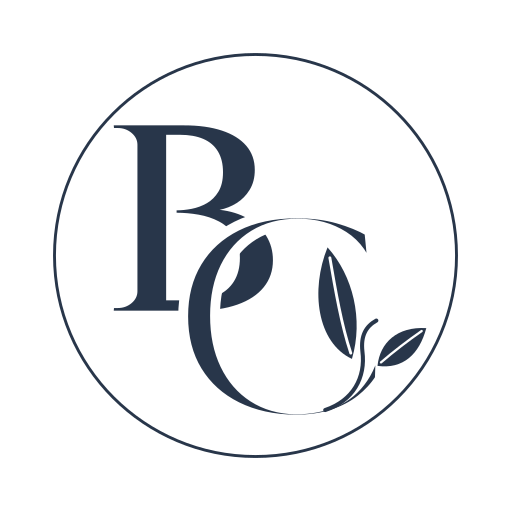
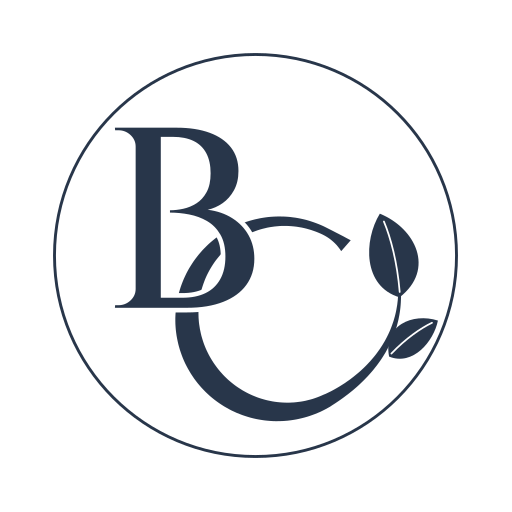
Redraw the BodyCentre monogram from scratch
The C is now one variable-width stroke with a diagonal, engraved stress that
passes behind the B and turns into the vine, ending in two constructed
leaves with midribs; the B stays whole. Replaces the stretched Cinzel C and
hand-placed leaves. Favicons and the link card are regenerated from it.

Also from review: the phone booking bar watches the hero buttons, scroll
reveals fall back to visible if their script never runs, and the FSA note
uses their own wording.

Changed region(s): [[0.2188, 0.2188, 0.875, 0.8438]]

diff --git a/apps/bodycentre-day-spa/src/scripts/reveal.ts b/apps/bodycentre-day-spa/src/scripts/reveal.ts
@@ -1,8 +1,10 @@
 /**
  * Marks `[data-reveal]` elements `.is-visible` the first time they near the
  * viewport, then stops watching them (global.css owns the transition). Reveals
- * run once: content that has been seen never animates again.
+ * run once: content that has been seen never animates again. `data-reveal-ready`
+ * tells global.css the script is running, so its no-script fallback stays off.
  */
+document.documentElement.toggleAttribute("data-reveal-ready", true);
 const targets = document.querySelectorAll<HTMLElement>("[data-reveal]");
 const observer = new IntersectionObserver(
   (entries) => {

diff --git a/apps/bodycentre-day-spa/src/styles/global.css b/apps/bodycentre-day-spa/src/styles/global.css
@@ -196,7 +196,8 @@
   transition-delay: calc(var(--i, 0) * 60ms);
 }
 
-.js [data-reveal].is-visible {
+.js [data-reveal].is-visible,
+.js.reveal-timeout:not([data-reveal-ready]) [data-reveal] {
   opacity: 1;
   transform: none;
 }

diff --git a/apps/bodycentre-day-spa/brand/build_logo.py b/apps/bodycentre-day-spa/brand/build_logo.py
@@ -2,11 +2,12 @@
 Rebuilds the BodyCentre logo as clean, flat vectors from their chrome raster.
 
 The original (brand/logo-original.png, from bodycentredayspa.com) is a beveled
-chrome render with glow, which traces badly. So the same design is rebuilt from
-parts, in the original's pixel coordinates: a fitted ring, B and C set in Cinzel
-(a Trajan-style face like the original's), the C thinned and cut where it
-crosses the B, hand-drawn leaves and stem, and the wordmark with each Cinzel
-glyph centered on the matching original glyph.
+chrome render with glow, which traces badly. So the same design is rebuilt in
+the original's pixel coordinates: a fitted ring; the B set in Cinzel (a
+Trajan-style face like the original's); the C drawn from scratch as one
+variable-width stroke with a diagonal, engraved stress that runs behind the B
+and turns into the vine; two constructed leaves with a midrib; and the
+wordmark with each Cinzel glyph centered on the matching original glyph.
 
 Outputs: public/brand/logo.svg, mark.svg, logo.png, and public/favicon.png,
 apple-touch-icon.png, icon-512.png, og-default.png.
@@ -15,6 +16,7 @@ Run: uv run --with fonttools python3 brand/build_logo.py   (needs rsvg-convert)
      add --overlay to write brand/.work/overlay.svg over the original for alignment
 """
 
+import math
 import subprocess
 import sys
 import urllib.request
@@ -71,17 +73,69 @@ def word(text, cap_height, baseline, centers):
     return " ".join(parts)
 
 
-# Geometry measured on the original (1254 x 911).
+def pt(x, y):
+    return f"{x:.1f} {y:.1f}"
+
+
+def outline(center, widths):
+    """Closed outline of a variable-width stroke along a sampled centerline."""
+    left, right = [], []
+    for k, (x, y) in enumerate(center):
+        ax, ay = center[max(k - 1, 0)]
+        bx, by = center[min(k + 1, len(center) - 1)]
+        dx, dy = bx - ax, by - ay
+        m = math.hypot(dx, dy) or 1
+        nx, ny, w = -dy / m, dx / m, widths[k] / 2
+        left.append((x + nx * w, y + ny * w))
+        right.append((x - nx * w, y - ny * w))
+    return "M " + " L ".join(pt(*q) for q in left + right[::-1]) + " Z"
+
+
+def c_with_vine():
+    """The C and its vine as one stroke: an arc thickest at lower left, then a tapering curve."""
+    cx, cy, rm = 668, 515, 164
+    start, end = 360 - 48, 62  # top terminal, then around the left to the lower right
+    center, widths = [], []
+    for k in range(161):
+        a = start + (end - start) * k / 160
+        center.append((cx + rm * math.cos(math.radians(a)), cy + rm * math.sin(math.radians(a))))
+        stress = ((1 + math.cos(math.radians(a - 150))) / 2) ** 1.6
+        flare = 1 + 0.9 * max(0.0, 1 - k / 10) ** 2
+        widths.append((13 + 30 * stress) * flare)
+    tx, ty = math.sin(math.radians(end)), -math.cos(math.radians(end))
+    p0 = center[-1]
+    p1, p2, p3 = (p0[0] + tx * 70, p0[1] + ty * 70), (868, 566), (870, 478)
+    w0 = widths[-1]
+    for k in range(1, 61):
+        t = k / 60
+        center.append(tuple((1 - t) ** 3 * p0[i] + 3 * (1 - t) ** 2 * t * p1[i] + 3 * (1 - t) * t * t * p2[i] + t**3 * p3[i] for i in (0, 1)))
+        widths.append(w0 + (5 - w0) * t**0.8)
+    return outline(center, widths)
+
+
+def leaf(base, tip, half_width, bend):
+    """An almond leaf from base to tip, and its midrib."""
+    (bx, by), (tx, ty) = base, tip
+    dx, dy = tx - bx, ty - by
+    length = math.hypot(dx, dy)
+    nx, ny = -dy / length, dx / length
+
+    def at(t, offset):
+        o = offset + bend * length * 4 * t * (1 - t)
+        return (bx + dx * t + nx * o, by + dy * t + ny * o)
+
+    body = f"M {pt(bx, by)} C {pt(*at(0.22, half_width * 1.4))} {pt(*at(0.74, half_width))} {pt(tx, ty)} C {pt(*at(0.74, -half_width))} {pt(*at(0.22, -half_width * 1.4))} {pt(bx, by)} Z"
+    rib = f"M {pt(*at(0.06, 0))} C {pt(*at(0.4, 0))} {pt(*at(0.7, 0))} {pt(*at(0.9, 0))}"
+    return body, rib
+
+
+# Geometry in the original's coordinates (1254 x 911).
 CX, CY, R = 622, 410, 346
-B = fit("B", (378, 186, 652, 505))
-C = fit("C", (498, 338, 838, 692))
+B = fit("B", (380, 190, 620, 500))
+C = c_with_vine()
+LEAVES = [leaf((870, 482), (836, 338), 46, 0.07), leaf((852, 584), (936, 522), 31, -0.08)]
 LETTERS = [(53, 147), (177, 279), (308, 407), (424, 521), (537, 637), (670, 746), (777, 877), (899, 984), (1012, 1104), (1122, 1197)]
 WORDMARK = word("BodyCentre", 115, 888, [(a + b) / 2 for a, b in LETTERS])
-STEM = "M 742 676 C 790 660 812 620 806 575 C 803 548 812 532 830 522"
-LEAF1 = "M 788 588 C 728 560 716 470 746 396 C 790 445 808 520 788 588 Z"
-VEIN1 = "M 786 578 C 770 530 760 472 750 414"
-LEAF2 = "M 832 600 C 836 560 866 532 916 535 C 904 580 876 606 832 600 Z"
-VEIN2 = "M 838 594 C 860 575 885 556 908 540"
 
 
 def svg(view_box, wordmark=True, overlay=False):
@@ -90,16 +144,14 @@ def svg(view_box, wordmark=True, overlay=False):
     text = f'<path d="{WORDMARK}"/>' if wordmark else ""
     return f"""<svg xmlns="http://www.w3.org/2000/svg" viewBox="{x} {y} {w} {h}" role="img" aria-label="BodyCentre">
 {under}<defs>
-<mask id="bc-thin" maskUnits="userSpaceOnUse" x="0" y="0" width="1254" height="911"><path d="{C}" fill="#fff" stroke="#000" stroke-width="16"/></mask>
-<mask id="bc-cut" maskUnits="userSpaceOnUse" x="0" y="0" width="1254" height="911"><rect width="1254" height="911" fill="#fff"/><path d="{C}" stroke="#000" stroke-width="18"/></mask>
-<mask id="bc-veins" maskUnits="userSpaceOnUse" x="0" y="0" width="1254" height="911"><rect width="1254" height="911" fill="#fff"/><g fill="none" stroke="#000" stroke-linecap="round"><path d="{VEIN1}" stroke-width="5"/><path d="{VEIN2}" stroke-width="4"/></g></mask>
+<mask id="bc-behind" maskUnits="userSpaceOnUse" x="0" y="0" width="1254" height="911"><rect width="1254" height="911" fill="#fff"/><path d="{B}" stroke="#000" stroke-width="16" stroke-linejoin="round"/></mask>
+<mask id="bc-ribs" maskUnits="userSpaceOnUse" x="0" y="0" width="1254" height="911"><rect width="1254" height="911" fill="#fff"/><g fill="none" stroke="#000" stroke-width="3" stroke-linecap="round">{"".join(f'<path d="{rib}"/>' for _, rib in LEAVES)}</g></mask>
 </defs>
 <g fill="{INK}">
 <circle cx="{CX}" cy="{CY}" r="{R}" fill="none" stroke="{INK}" stroke-width="5"/>
-<path d="{B}" mask="url(#bc-cut)"/>
-<path d="{C}" mask="url(#bc-thin)"/>
-<path d="{STEM}" fill="none" stroke="{INK}" stroke-width="7" stroke-linecap="round"/>
-<g mask="url(#bc-veins)"><path d="{LEAF1}"/><path d="{LEAF2}"/></g>
+<path d="{B}"/>
+<path d="{C}" mask="url(#bc-behind)"/>
+<path d="{" ".join(body for body, _ in LEAVES)}" mask="url(#bc-ribs)"/>
 {text}</g>
 </svg>
 """
